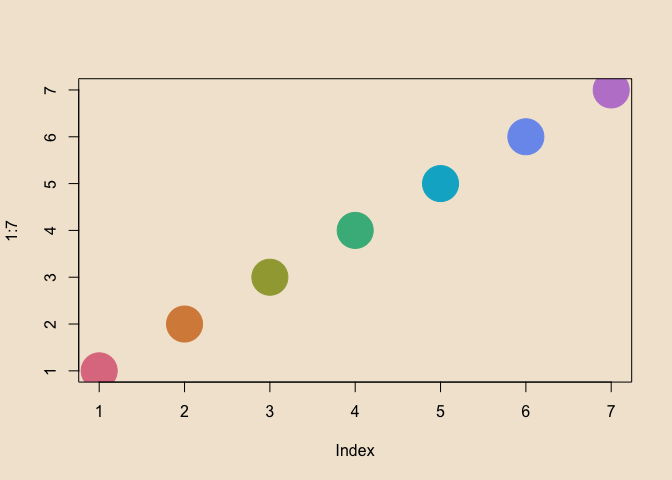
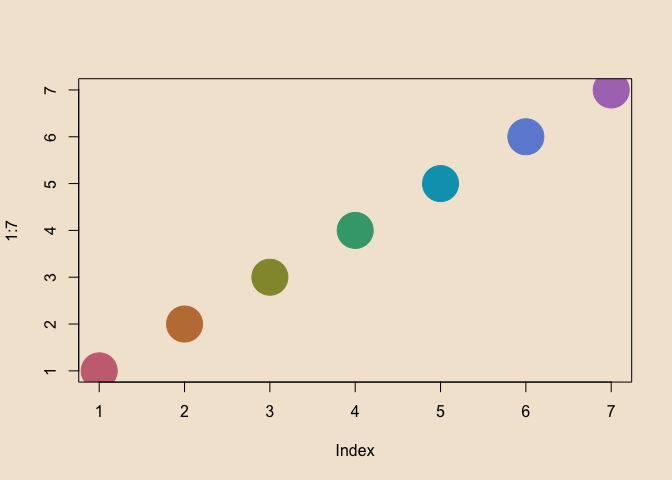
Tweak README colours

Changed region(s): [[0.75, 0.25, 0.8125, 0.3438], [0.125, 0.7188, 0.1875, 0.8125]]

diff --git a/README.md b/README.md
@@ -38,7 +38,7 @@ remotes::install_github("hughjonesd/penumbra")
 library(penumbra)
 
 par(bg = penumbra::base_pal(n = 3)[3])
-palette(penumbra::color_pal(n = 7, contrast = "contrast+"))
+palette(penumbra::color_pal(n = 7))
 plot(1:7, pch = 19, cex = 5, col = 1:7)
 ```
 
